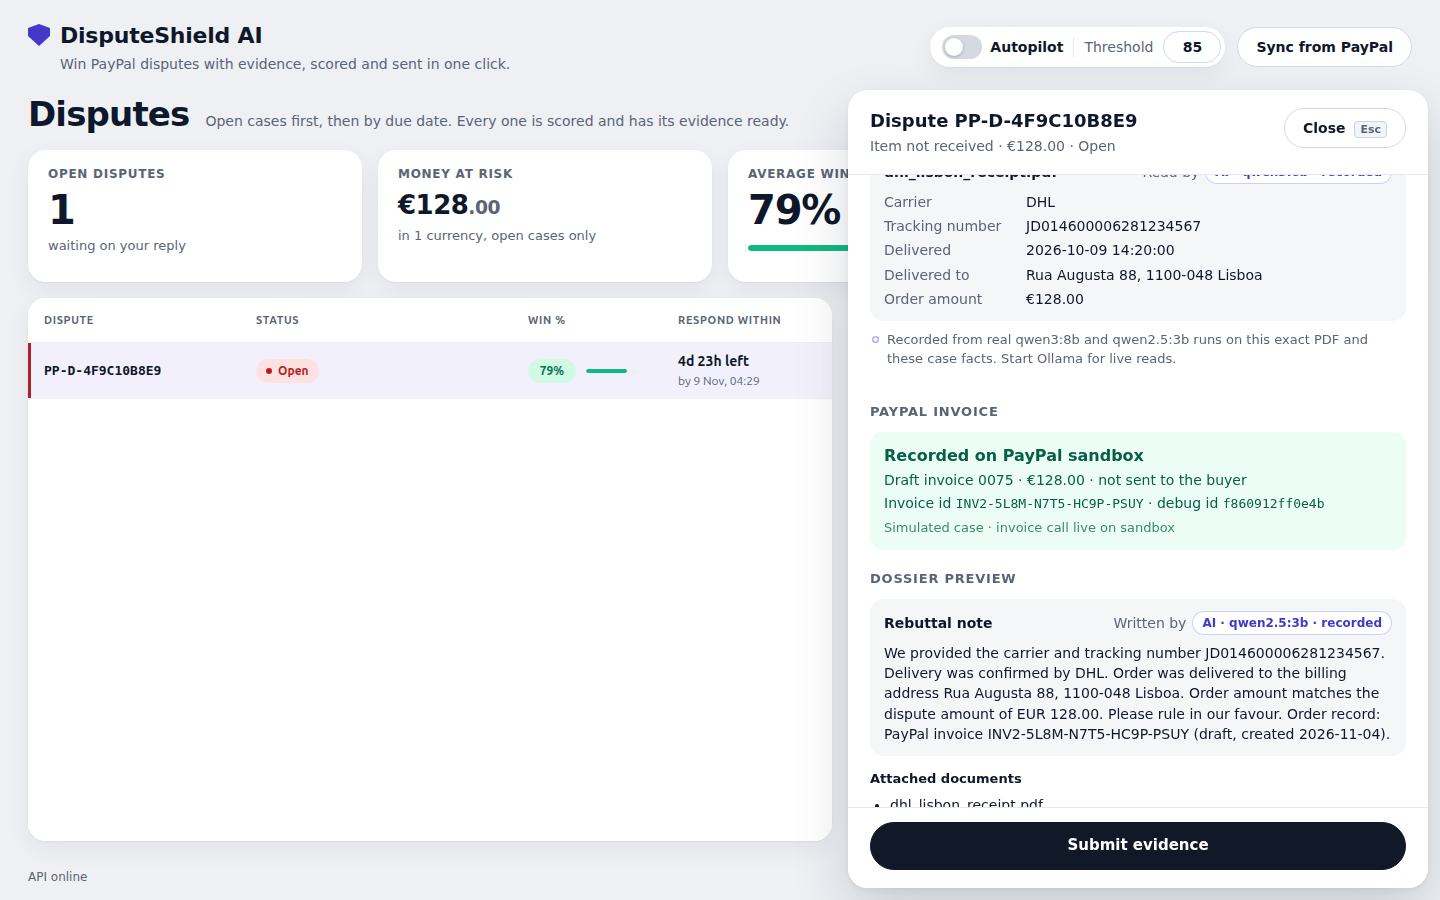
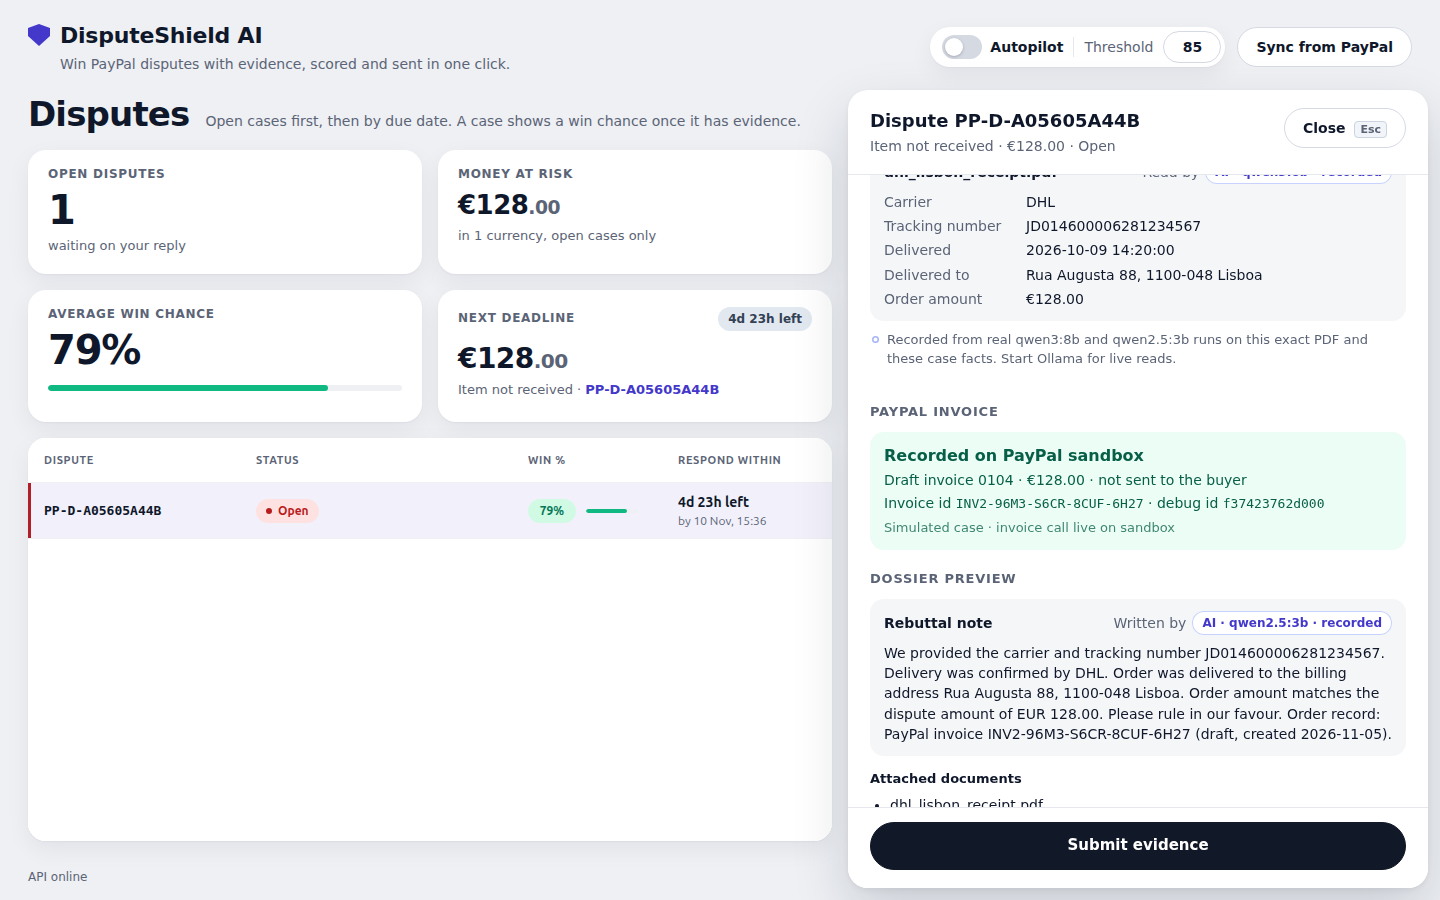
readme shots: pin Leeds case, no 100% check, new invoice line

diff --git a/scripts/readme-shots.ts b/scripts/readme-shots.ts
@@ -68,6 +68,7 @@ function watch(page: Page): void {
 async function shot(page: Page, name: string): Promise<void> {
   await page.evaluate(() => document.fonts.ready);
   await Bun.sleep(400); // let the panel and toast transitions finish
+  if (/\b100%/.test(await page.locator('body').innerText())) throw new Error(`${name} shows 100%: the display is capped at 95%`);
   const file = join(OUT, name);
   await page.screenshot({ path: file, animations: 'disabled' });
   const size = statSync(file).size;
@@ -122,7 +123,7 @@ try {
   }
   mkdirSync(OUT, { recursive: true });
   browser = await chromium.launch();
-  const desk = await browser.newContext({ viewport: { width: 1440, height: 1200 }, colorScheme: 'light' });
+  const desk = await browser.newContext({ viewport: { width: 1440, height: 1200 }, colorScheme: 'light', extraHTTPHeaders: { 'X-Demo-Scenario': 'leeds' } }); // Simulate chargeback rotates: pin the Leeds walkthrough case
   const page = await desk.newPage();
   watch(page);
   await page.goto(`${BASE}/#token=${TOKEN}`);
